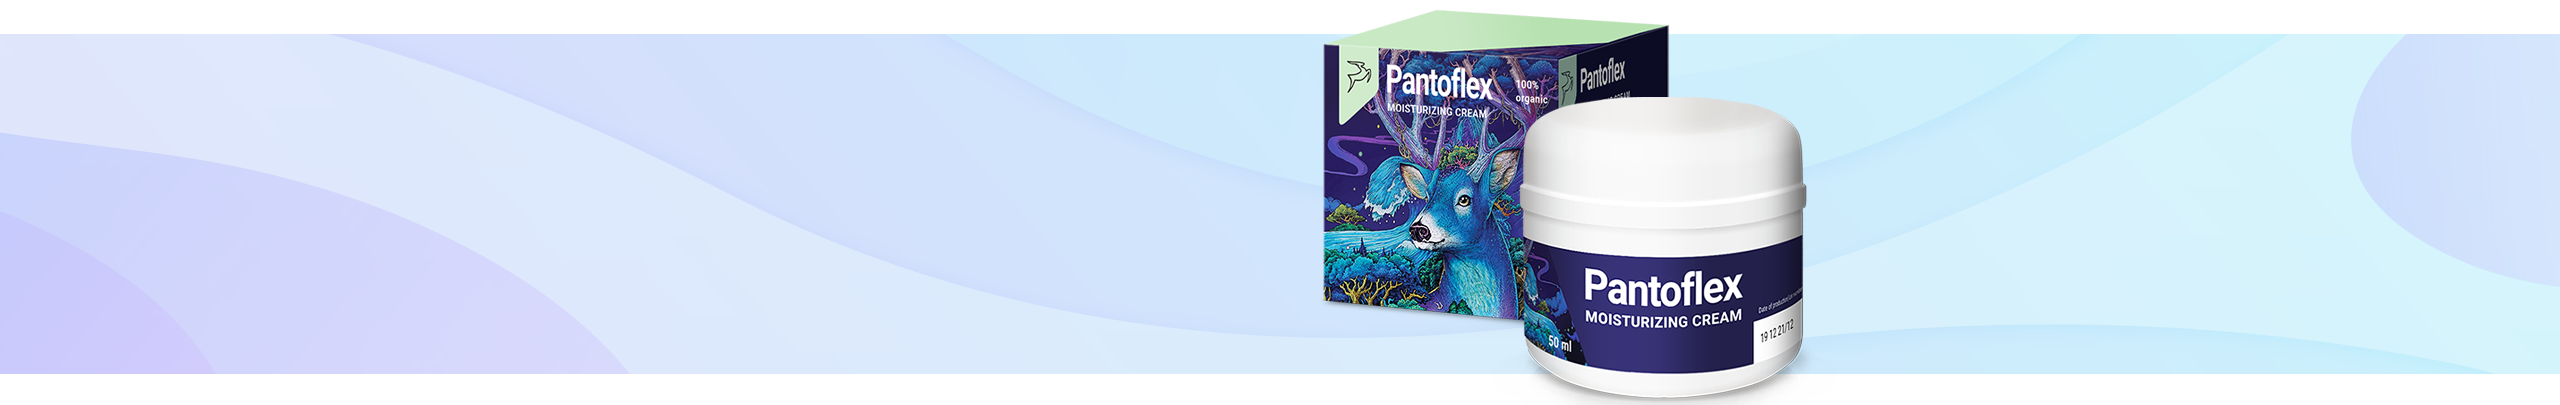
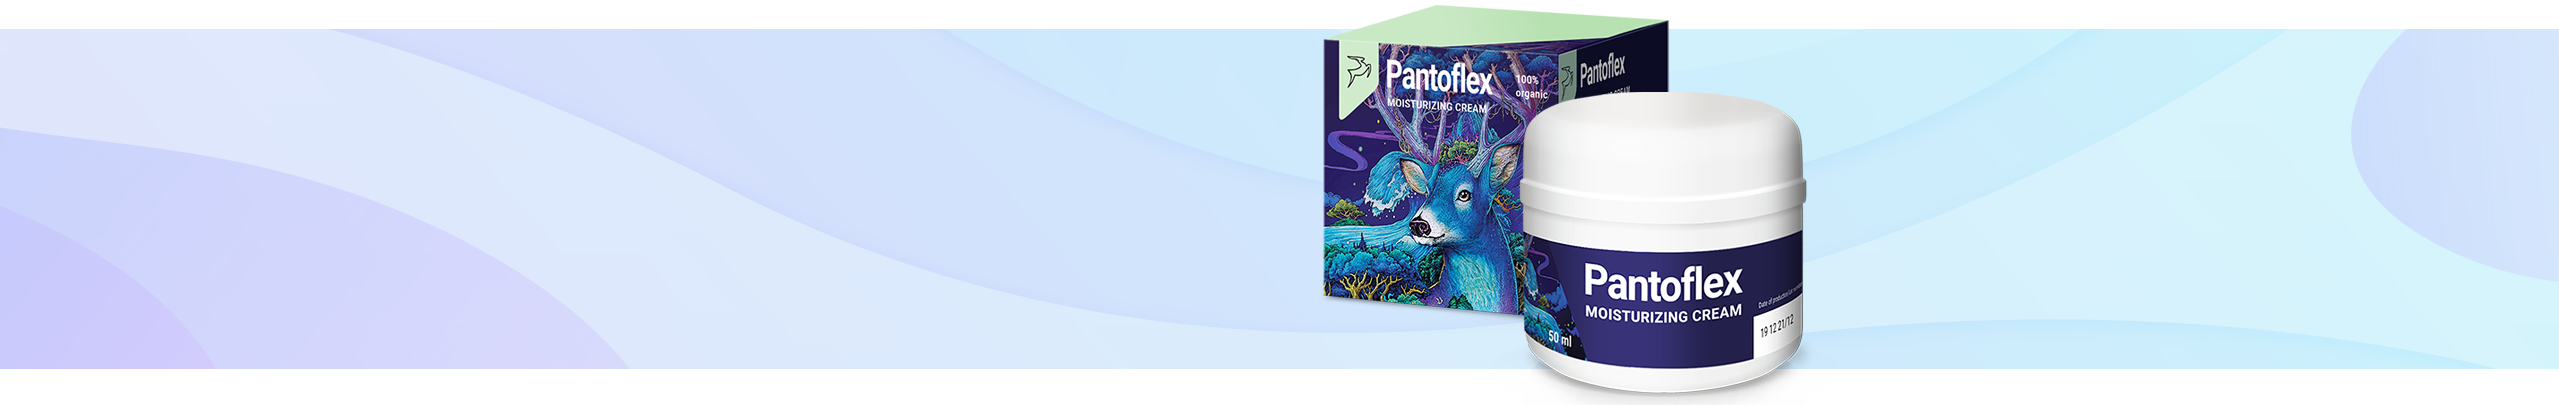
add retina img

Changed region(s): [[0.0, 0.0296, 1.0, 1.0], [0.5557, 0.0, 0.5866, 0.0296]]

diff --git a/src/index.html b/src/index.html
@@ -148,7 +148,10 @@
           <ul class="compositionList">
             <li class="compositionList__item">
               <p class="compositionList__title">Облепиха</p>
-              <img src="./images/sea-buckthorn.png" alt="" />
+              <picture>
+                <source srcset="./images/sea-buckthorn@2x.png 2x" />
+                <img src="./images/sea-buckthorn.png" alt="buckthorn" />
+              </picture>
               <p class="compositionList__text">
                 Противостоит воспалению суставов, снимает боль, способствует
                 продлению работоспособности суставов.
@@ -156,7 +159,10 @@
             </li>
             <li class="compositionList__item">
               <p class="compositionList__title">Календула</p>
-              <img src="./images/flower.png" alt="" />
+              <picture>
+                <source srcset="./images/flower@2x.png 2x" />
+                <img src="./images/flower.png" alt="flower" />
+              </picture>
               <p class="compositionList__text">
                 Стимулирует восстановление тканей, ускоряет процесс
                 восстановления сустава.
@@ -164,7 +170,10 @@
             </li>
             <li class="compositionList__item">
               <p class="compositionList__title">Каштан</p>
-              <img src="./images/chestnut.png" alt="" />
+              <picture>
+                <source srcset="./images/chestnut@2x.png 2x" />
+                <img src="./images/chestnut.png" alt="chestnut" />
+              </picture>
               <p class="compositionList__text">
                 Снимает отеки, обладает антиоксидантными свойствами, улучшает
                 микроциркуляцию крови в суставах.
@@ -172,7 +181,10 @@
             </li>
             <li class="compositionList__item">
               <p class="compositionList__title">Cульфаты</p>
-              <img src="./images/sulfates.png" alt="" />
+              <picture>
+                <source srcset="./images/sulfates@2x.png 2x" />
+                <img src="./images/sulfates.png" alt="sulfates" />
+              </picture>
               <p class="compositionList__text">
                 Укрепляет хрящевые ткани сустава, обеспечивает гладкое
                 скольжение элементов сустава, способствует восстановлению хряща.

diff --git a/src/sass/topBgnd.scss b/src/sass/topBgnd.scss
@@ -4,10 +4,21 @@
   background-repeat: no-repeat;
   padding-bottom: 70px;
 }
+@media (-webkit-min-device-pixel-ratio: 2), (min-resolution: 192dpi) {
+  .wrapper {
+    background: url(../images/bgnd-top-mob@2x.png), #d2f4fc;
+  }
+}
 
 @media (min-width: 1170px) {
   .wrapper {
     background: center 1892px no-repeat url(../images/cream.png),
       center 0 no-repeat url(../images/bgnd-top.png), #ffffff;
+  }
+  @media (min-resolution: 192dpi), (min-resolution: 2dppx) {
+    .wrapper {
+      background: center 1892px no-repeat url(../images/cream@2x.png),
+        center 0 no-repeat url(../images/bgnd-top@2x.png), #ffffff;
+    }
   }
 }

diff --git a/src/sass/composition.scss b/src/sass/composition.scss
@@ -61,6 +61,12 @@
       letter-spacing: -0.8px;
     }
   }
+  @media (-webkit-min-device-pixel-ratio: 2), (min-resolution: 192dpi) {
+    .composition {
+      background: 0 0 no-repeat url(../images/bgnd-composition@2x.png);
+    }
+  }
+
   .compositionList {
     margin: 0;
     width: 572px;
@@ -69,11 +75,10 @@
 
     flex-wrap: wrap;
     &__item {
-    //   width: 270px;
       margin-bottom: 100px;
     }
   }
-  .compositionList__item:nth-child(n+3) {
+  .compositionList__item:nth-child(n + 3) {
     margin-bottom: 0;
   }
 }

diff --git a/src/sass/symptoms.scss b/src/sass/symptoms.scss
@@ -60,6 +60,11 @@
       width: 872px;
     }
   }
+  @media (-webkit-min-device-pixel-ratio: 2), (min-resolution: 192dpi) {
+    .symptoms {
+      background: 500px 100px no-repeat url(../images/man@2x.png);
+    }
+  }
 
   .symptomsList {
     width: 610px;
